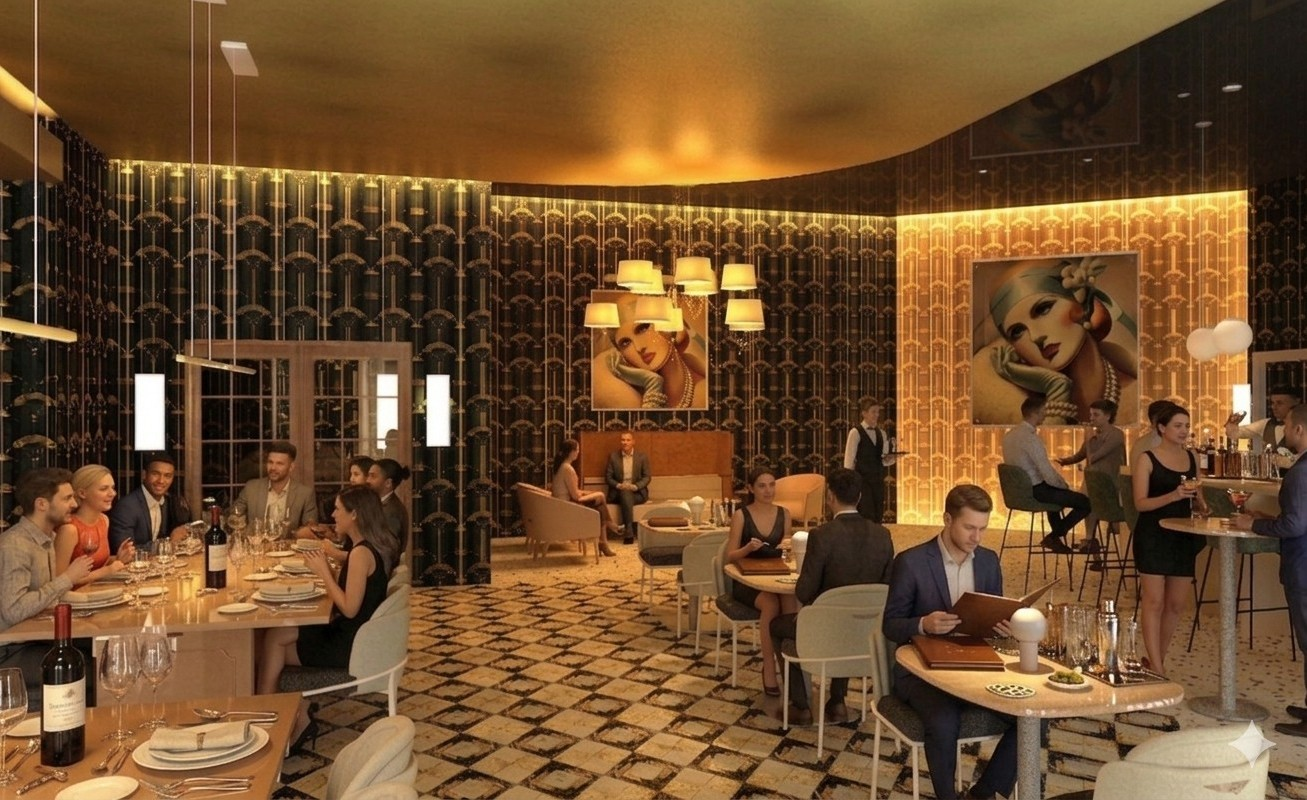
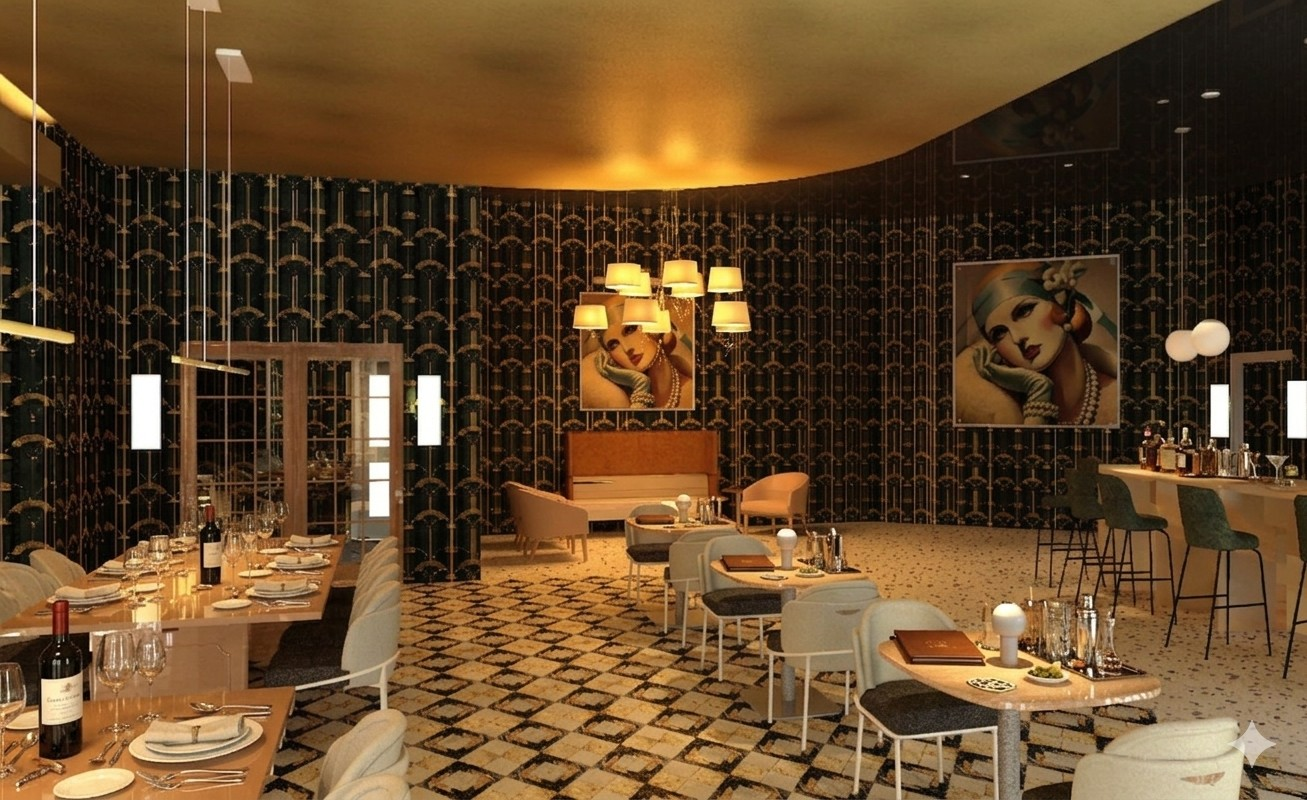
The Velvet Hour: use the empty-room AI visualization beside the dining room rendering
Claude-Session: https://claude.ai/code/session_01TyPsZ4kRQc6u5qMH3MX8Kb

diff --git a/src/content/concepts/the-velvet-hour/index.md b/src/content/concepts/the-velvet-hour/index.md
@@ -18,7 +18,7 @@ images:
     alt: 3D rendering of a dining room with a long table, round tables, a bar with olive green stools, dark gold Art Deco patterned wallpaper, a checkered floor, and two large portrait paintings of women in 1920s dress
   - src: ./05.jpg
     caption: AI-generated visualization
-    alt: Concept visualization of a dining room full of guests, with a long set table, a bar with olive green stools, glowing dark gold Art Deco patterned wallpaper, a checkered floor, and two large portrait paintings of women in 1920s dress
+    alt: Concept visualization of a dining room with a long set table, a bar with olive green stools, dark gold Art Deco patterned wallpaper, a checkered floor, and two large portrait paintings of women in 1920s dress
 services: []
 order: 4
 ---
